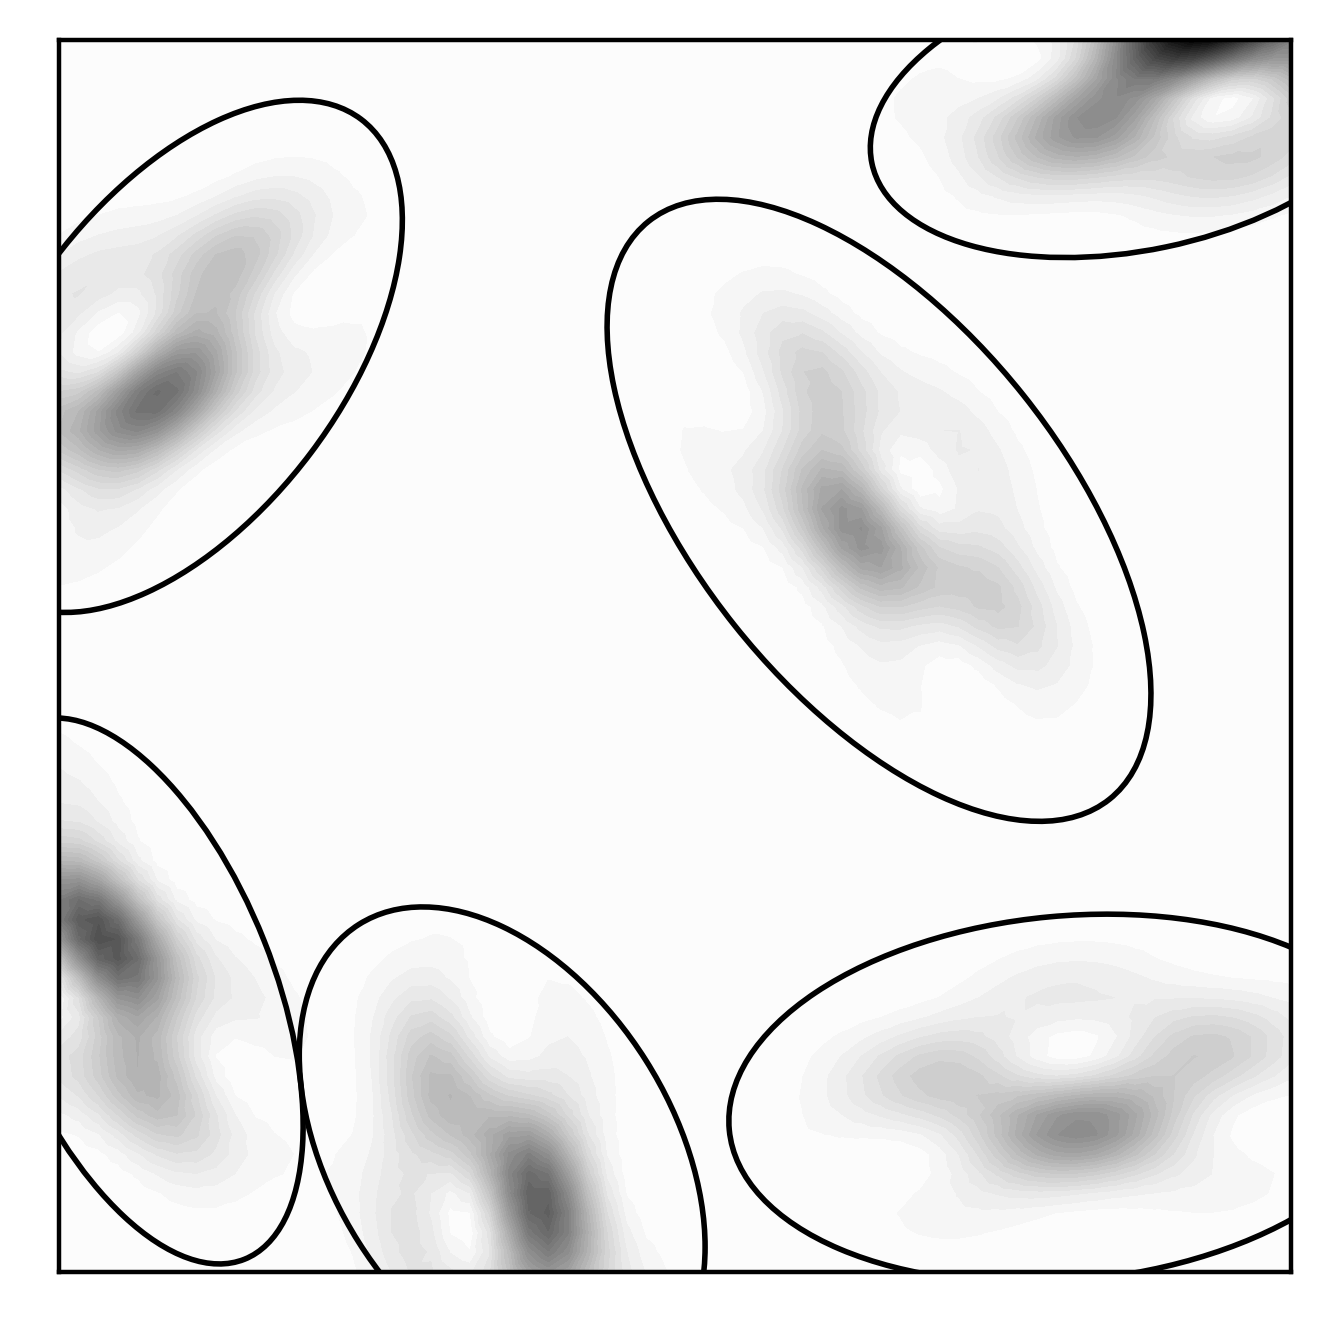
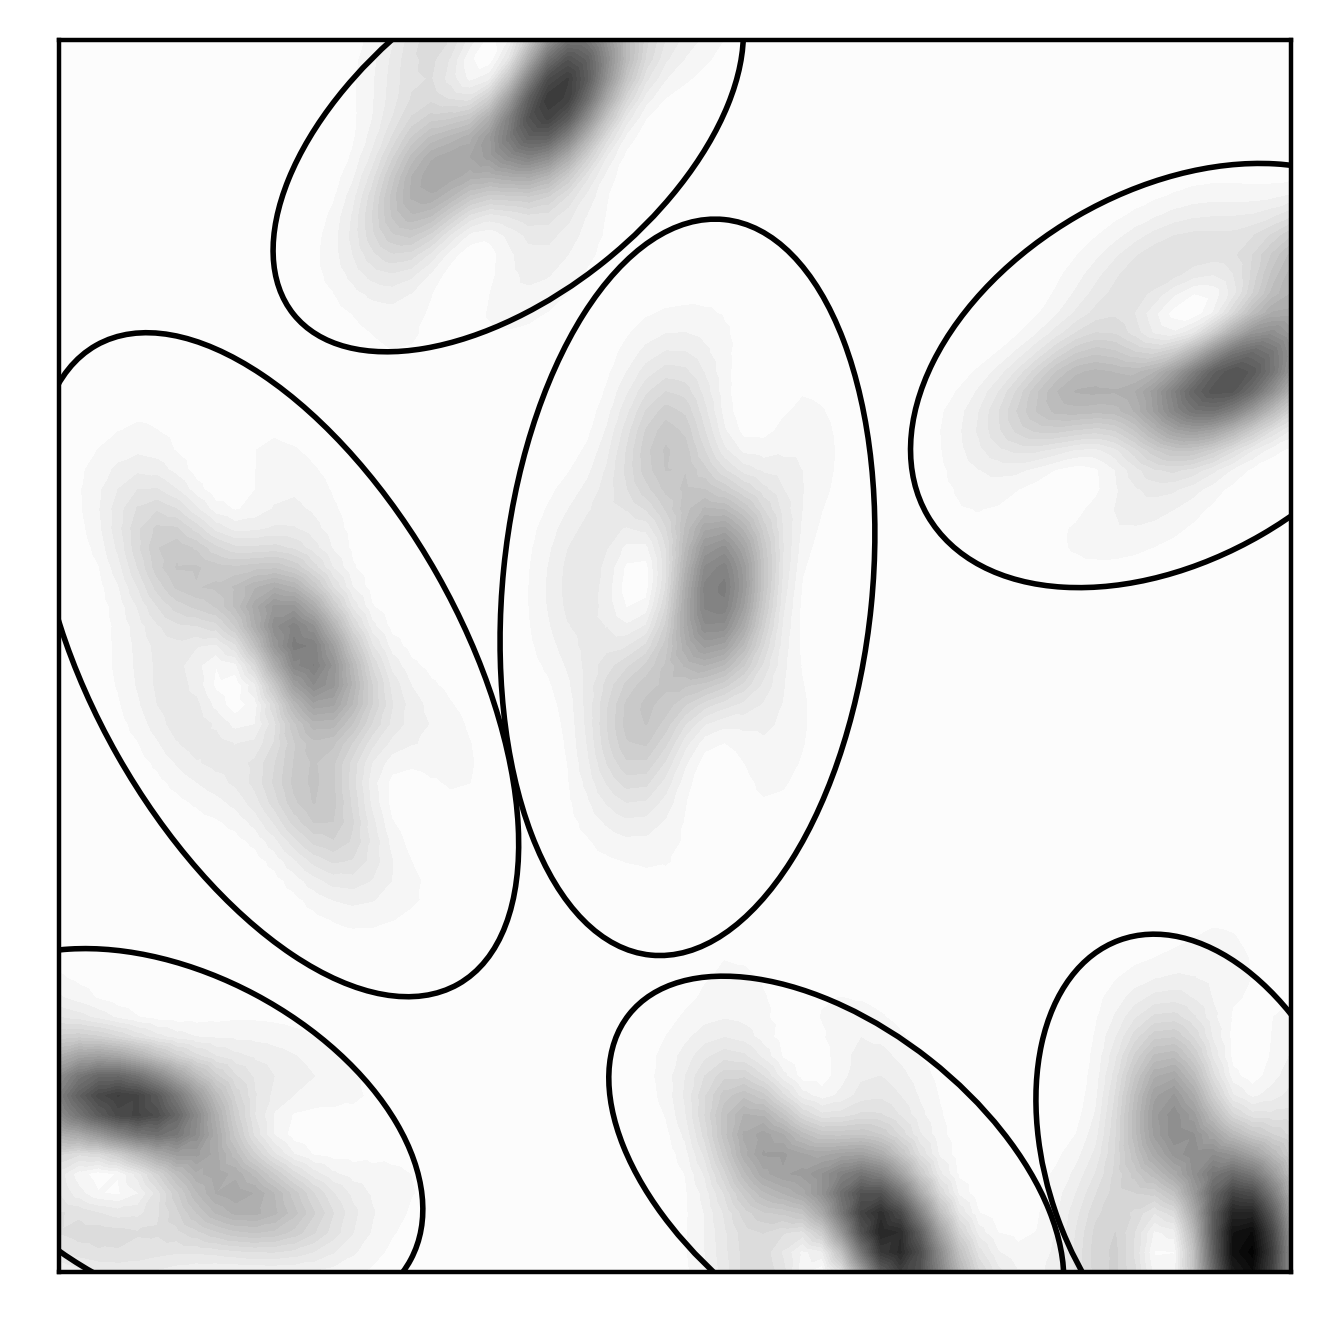
making interpolation figure

diff --git a/numerical_examples/blur/blur_example.py b/numerical_examples/blur/blur_example.py
@@ -16,17 +16,19 @@ def frog_function(
     vol: float,
     mu: np.ndarray, # shape=(2,)
     Sigma: np.ndarray, # shape=(2, 2)
-    a: float # how much negative to include. a=0: gaussian
+    a: float, # how much negative to include. a=0: gaussian
+    use_bump: bool = True,
 ) -> np.ndarray: # shape=(N,)
     assert(xx.shape[1] == 2)
     N = xx.shape[0]
     assert(Sigma.shape == (2, 2))
     assert(mu.shape == (2,))
 
-    theta = np.pi * (mu[0] + mu[1])
+    # theta = np.pi * (mu[0] + mu[1])
+    theta = (np.pi / 2.0) * (mu[0] + mu[1])
     Rot_matrix = np.array([[np.cos(theta), -np.sin(theta)], [np.sin(theta), np.cos(theta)]])
 
-    bump = mu[0]*(1 - mu[0])*mu[1]*(1-mu[1])
+    bump = mu[0]*(1 - mu[0])*mu[1]*(1-mu[1]) if use_bump else 0.0
 
     pp = (xx - mu.reshape((1,2))) @ Rot_matrix.T #@ Rot_matrix.T
     inv_Sigma = np.linalg.inv(Sigma)
@@ -284,23 +286,40 @@ for b in bb:
 
 raise RuntimeError
 
-nx = 89
-length_scaling = 0.0625
+nx = 49
+length_scaling = 1.0 #0.0625
 a = 1.0
 Ker, phi_function, Vh, H, mass_lumps, dof_coords = frog_setup(nx, length_scaling, a)
+
+num_neighbors = 10
 
 psf_object = lpsf1.make_psf_fenics(
     lambda X: H @ X,
     lambda X: H.T @ X,
     Vh, Vh,
     mass_lumps, mass_lumps,
-    num_initial_batches=10,#0,
+    num_initial_batches=20,#0,
     tau = 3.0, display=True,
+    num_neighbors = num_neighbors
 )
 
 Ker_psf = psf_object.psf_object.psf_kernel.cpp_object.eval_integral_kernel_block(dof_coords.T, dof_coords.T)
 err_psf = np.linalg.norm(Ker_psf - Ker) / np.linalg.norm(Ker)
 print('err_psf=', err_psf)
+
+p0 =  np.array([0.4, 0.4])
+ii = nearest_ind_func(dof_coords, p0)
+p = dof_coords[ii,:]
+
+mu_p = np.array([psf_object.mu(0)(p), psf_object.mu(1)(p)])
+
+q0 =  np.array([0.43, 0.48])
+jj = nearest_ind_func(dof_coords, q0)
+q = dof_coords[jj,:]
+
+sp = psf_object.psf_object.impulse_response_batches.sample_points
+
+nearest_inds = np.argsort(np.linalg.norm(sp - p.reshape((1,-1)), axis=1))[:num_neighbors]
 
 ker_err_func = dl.Function(Vh)
 ker_err_vec = np.linalg.norm(Ker_psf - Ker, axis=0) / np.linalg.norm(Ker, axis=0)
@@ -309,22 +328,69 @@ ker_err_vec[np.linalg.norm(Ker, axis=0) == 0] = 0.0
 ker_err_func.vector()[:] = ker_err_vec
 # ker_err_func.vector()[:] = ker_err_vec > 0.03
 plt.figure()
-cm = dl.plot(ker_err_func, cmap='binary')
+# cm = dl.plot(ker_err_func, cmap='binary')
+# plt.colorbar(cm)
+plt.plot(sp[:,0], sp[:,1], '.', c='gray', markersize=3)
+# plt.plot(p[0], p[1], 'sk', markersize=4)
+# plt.plot(q[0], q[1], 'sk', markersize=4)
+plt.plot([p[0], q[0]], [p[1], q[1]], 'sk', markersize=4)
+# plt.plot(q[0], q[1], 'sk', markersize=4)
+plt.plot(sp[nearest_inds,0], sp[nearest_inds,1], '.k')
+# plt.title('ker error')
+plt.gca().set_xticks([])
+plt.gca().set_yticks([])
+plt.savefig('frog_kernel_error_illustration1.png', dpi=300, bbox_inches='tight')
+
+for k in range(num_neighbors):
+    sp_k = sp[nearest_inds[k], :]
+    ii = nearest_ind_func(dof_coords, sp_k)
+    sample_phi = dl.Function(Vh)
+    sample_phi.vector()[:] = Ker[:,ii].copy()
+    plt.figure()
+    cm = dl.plot(sample_phi, cmap='binary')
+    # plt.colorbar(cm)
+    plt.axis('off')
+
+    mu_spk = np.array([psf_object.mu(0)(sp_k), psf_object.mu(1)(sp_k)])
+    Sigma_spk = np.array([[psf_object.Sigma(0, 0)(sp_k), psf_object.Sigma(0, 1)(sp_k)],
+                          [psf_object.Sigma(1, 0)(sp_k), psf_object.Sigma(1, 1)(sp_k)]])
+
+    tau = 3.0
+    # plot_ellipse(mu_p, Sigma_p, n_std_tau=tau, facecolor='none', edgecolor='k', linewidth=1)
+
+    xwidth = (tau * 1.1) * np.sqrt(Sigma_spk[0, 0])
+    ywidth = (tau * 1.1) * np.sqrt(Sigma_spk[1, 1])
+
+    plt.xlim([mu_spk[0] - xwidth, mu_spk[0] + xwidth])
+    plt.ylim([mu_spk[1] - ywidth, mu_spk[1] + ywidth])
+
+    plt.plot(mu_spk[0], mu_spk[1], '*k', markersize=8)
+    plt.plot(mu_spk[0] + q[0] - mu_p[0], mu_spk[1] + q[0] - mu_p[1], 'sk', markersize=6)
+
+
+
+#
+
+plt.figure(figsize=(8,3))
+
+phi_true = dl.Function(Vh)
+phi_true.vector()[:] = Ker[:,ii].copy()
+plt.subplot(1,2,1)
+cm = dl.plot(phi_true, cmap='binary')
 plt.colorbar(cm)
-sp = psf_object.psf_object.impulse_response_batches.sample_points
-plt.plot(sp[:,0], sp[:,1], '.r')
-plt.title('ker error')
+plt.title('phi')
 
-
-raise RuntimeError
-
-ii = nearest_ind_func(dof_coords, np.array([0.5, 0.2]))
 e_func = dl.Function(Vh)
 e_func.vector()[:] = (Ker_psf[:,ii] - Ker[:,ii]).copy()
-plt.figure()
+plt.subplot(1,2,2)
 cm = dl.plot(e_func, cmap='binary')
 plt.colorbar(cm)
 plt.title('phi error')
+
+
+
+
+raise RuntimeError
 
 phi_func = dl.Function(Vh)
 phi_func.vector()[:] = Ker[:,ii].copy()

diff --git a/revision/reply_to_reviewer2.tex b/revision/reply_to_reviewer2.tex
@@ -57,7 +57,7 @@ submission and this re-submission.\\[1ex]
 (1) moments. Show one impulse with ellipsoid with widths illustrated
 (2) impulse response batches
 (3) RBF interpolation (?), evaluation of entries. Columns we know, and entry we don't know. 
-(4) H-matrix
+(4) H-matrix (structure only)
 }
 
 \item \referee{possibly interesting references for estimating Hessians
